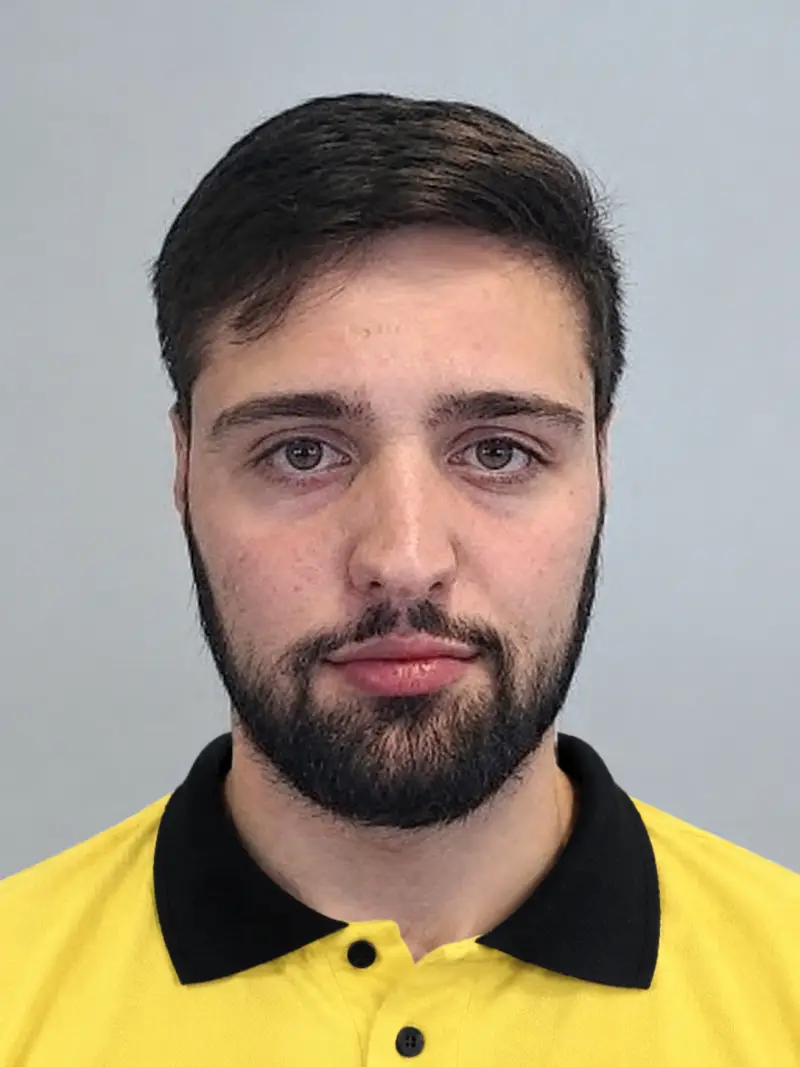
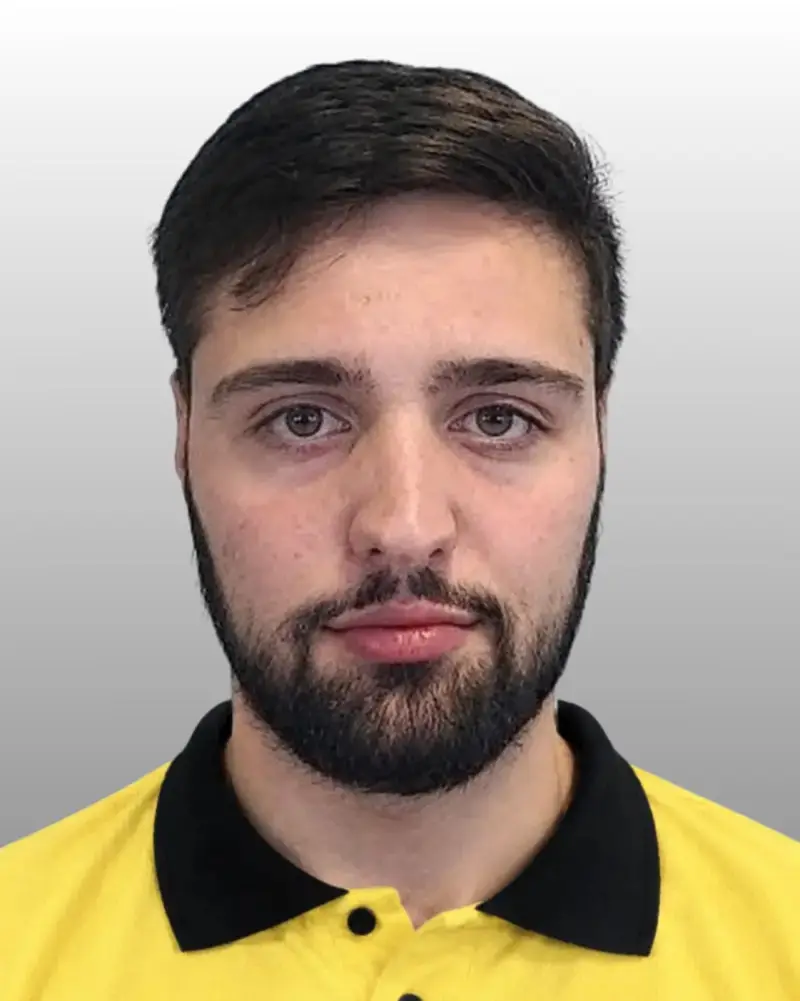
feat(plantel): fotos uniformes em WebP e números pretos
As novas fotos de fundo claro passam a WebP e o número no cartão fica legível.

diff --git a/src/data/siteData.ts b/src/data/siteData.ts
@@ -17,20 +17,20 @@ export interface Player {
 
 export const players: Player[] = [
   { number: 1,  name: "Nuno Teixeira",      position: "Guarda-Redes", photo: "/uploads/jogadores/nunoteixeira.webp",      stats: { games: 53, age: 29, nationality: "PT" } },
-  { number: 16, name: "Simão Loureiro",     position: "Guarda-Redes", photo: "/uploads/jogadores/simaoloureiro.jpeg",    stats: { games: 26, age: 35, nationality: "PT" } },
-  { number: 3,  name: "Tiago Pimentel",     position: "Defesa",       photo: "/uploads/jogadores/tiagopimentel.jpeg",    stats: { games: 83, goals: 0, age: 25, nationality: "PT" } },
-  { number: 8,  name: "Marco Resendes",     position: "Defesa",       photo: "/uploads/jogadores/marcoresendes.jpeg",    stats: { games: 7, goals: 0, age: 57, nationality: "PT" } },
+  { number: 16, name: "Simão Loureiro",     position: "Guarda-Redes", photo: "/uploads/jogadores/simaoloureiro.webp",    stats: { games: 26, age: 35, nationality: "PT" } },
+  { number: 3,  name: "Tiago Pimentel",     position: "Defesa",       photo: "/uploads/jogadores/tiagopimentel.webp",    stats: { games: 83, goals: 0, age: 25, nationality: "PT" } },
+  { number: 8,  name: "Marco Resendes",     position: "Defesa",       photo: "/uploads/jogadores/marcoresendes.webp",    stats: { games: 7, goals: 0, age: 57, nationality: "PT" } },
   { number: 5,  name: "David Reis",         position: "Médio",        photo: "/uploads/jogadores/davidreis.webp",         stats: { games: 0, goals: 0, age: 0, nationality: "PT" } },
-  { number: 11, name: "Alexandre Resendes", position: "Médio",        photo: "/uploads/jogadores/alexandreresendes.jpeg",stats: { games: 23, goals: 10, age: 23, nationality: "PT" } },
-  { number: 4,  name: "Alexandre Ornelas",  position: "Médio",        photo: "/uploads/jogadores/alexandreornelas.jpeg", stats: { games: 22, goals: 1, age: 20, nationality: "PT" } },
-  { number: 9,  name: "Pedro Paula",        position: "Universal",    photo: "/uploads/jogadores/pedropaula.jpeg",       stats: { games: 118, goals: 19, age: 26, nationality: "PT" } },
+  { number: 11, name: "Alexandre Resendes", position: "Médio",        photo: "/uploads/jogadores/alexandreresendes.webp",stats: { games: 23, goals: 10, age: 23, nationality: "PT" } },
+  { number: 4,  name: "Alexandre Ornelas",  position: "Médio",        photo: "/uploads/jogadores/alexandreornelas.webp", stats: { games: 22, goals: 1, age: 20, nationality: "PT" } },
+  { number: 9,  name: "Pedro Paula",        position: "Universal",    photo: "/uploads/jogadores/pedropaula.webp",       stats: { games: 118, goals: 19, age: 26, nationality: "PT" } },
   { number: 66, name: "Francisco Freitas",  position: "Universal",    photo: "/uploads/jogadores/franciscofreitas.webp",  stats: { games: 134, goals: 58, age: 22, nationality: "PT" } },
   { number: 23, name: "Mário Jesus",        position: "Defesa",       photo: "/uploads/jogadores/mariojesus.webp",        stats: { games: 14, goals: 1, age: 28, nationality: "PT" } },
   { number: 77, name: "Pedro Soares",       position: "Avançado",     photo: "/uploads/jogadores/pedrosoares.webp",       stats: { games: 54, goals: 98, age: 31, nationality: "PT" } },
-  { number: 28, name: "Tiago Leite",        position: "Avançado",     photo: "/uploads/jogadores/tiagoleite.jpeg",       stats: { games: 55, goals: 57, age: 35, nationality: "PT" } },
-  { number: 44, name: "Miguel Pimentel",    position: "Avançado",     photo: "/uploads/jogadores/miguelpimentel.jpeg",   stats: { games: 90, goals: 18, age: 27, nationality: "PT" } },
-  { number: 7,  name: "Carlos Guimarães",   position: "Avançado",     photo: "/uploads/jogadores/carlosguimaraes.jpeg",  stats: { games: 125, goals: 167, age: 47, nationality: "PT" } },
-  { number: 6,  name: "Vicente Correia",    position: "Avançado",     photo: "/uploads/jogadores/vicente.jpeg",          stats: { games: 25, goals: 29, age: 20, nationality: "PT" } },
+  { number: 28, name: "Tiago Leite",        position: "Avançado",     photo: "/uploads/jogadores/tiagoleite.webp",       stats: { games: 55, goals: 57, age: 35, nationality: "PT" } },
+  { number: 44, name: "Miguel Pimentel",    position: "Avançado",     photo: "/uploads/jogadores/miguelpimentel.webp",   stats: { games: 90, goals: 18, age: 27, nationality: "PT" } },
+  { number: 7,  name: "Carlos Guimarães",   position: "Avançado",     photo: "/uploads/jogadores/carlosguimaraes.webp",  stats: { games: 125, goals: 167, age: 47, nationality: "PT" } },
+  { number: 6,  name: "Vicente Correia",    position: "Avançado",     photo: "/uploads/jogadores/vicentecorreia.webp",   stats: { games: 25, goals: 29, age: 20, nationality: "PT" } },
 ];
 
 export const POSITION_ORDER = ["Guarda-Redes", "Defesa", "Médio", "Universal", "Avançado"] as const;

diff --git a/src/components/sections/TeamSection.tsx b/src/components/sections/TeamSection.tsx
@@ -81,7 +81,7 @@ function PlayerCard({ player }: { player: Player }) {
                 </span>
               </div>
             )}
-            <span className="absolute top-1.5 right-2 text-white/40 font-black leading-none select-none" style={{ fontSize: '2rem' }}>
+            <span className="absolute top-1.5 right-2 text-black font-black leading-none select-none" style={{ fontSize: '2rem' }}>
               {player.number}
             </span>
             <div className="absolute bottom-0 left-0 right-0 p-2.5">
